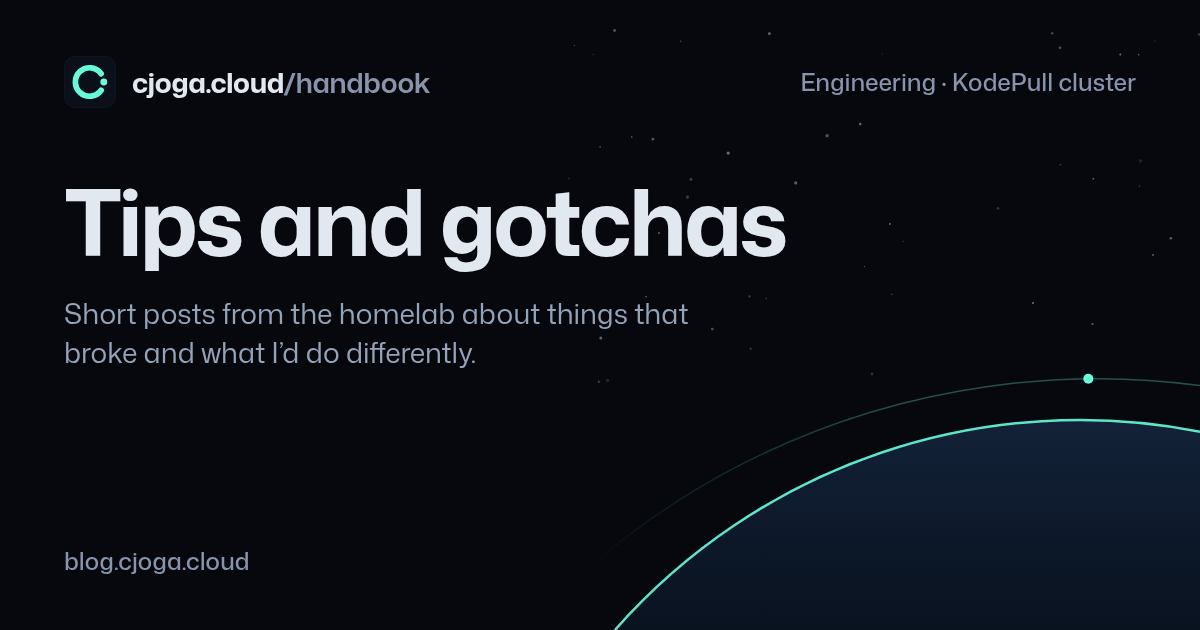
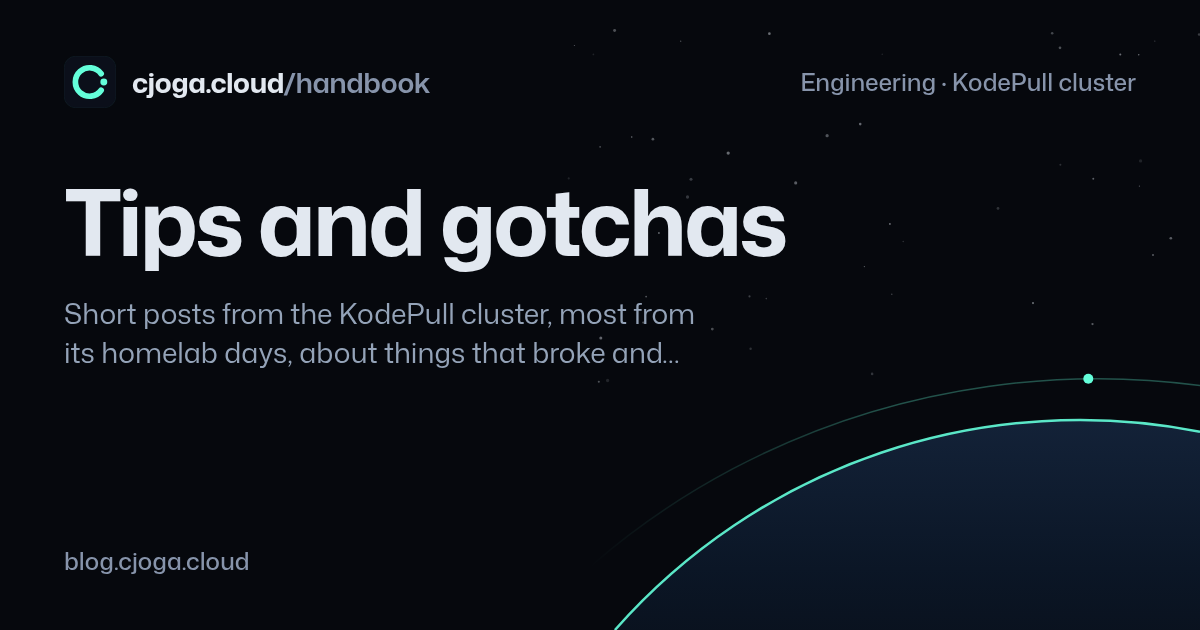
docs(handbook): consistency pass against the portfolio and the source facts
The Palette credential shows Palette's own mark (CertBadge takes a logo;
Spectro Cloud keeps its official mark). No "Senior" title; no parents'
nationality on /me/who-i-am, which keeps the birthplace; "Spanish
(native)". The who-i-am timeline adds FL Betances and Globant, and its
narrative matches the Arctiq and KodePull pages. The expiry essay counts
thirteen and says where the study time goes now; the DevOps-title essay
names one DevOps Engineer and one DevOps Consultant role. KodePull drops
an unverifiable industries claim for the work it is growing into. The
Globant page no longer names two current focuses. Section and tips
indexes say "cluster", and cards whose descriptions changed get new
social cards.

Changed region(s): [[0.0617, 0.5429, 0.555, 0.6032], [0.2775, 0.4825, 0.5858, 0.5127]]

diff --git a/blog-site/src/components/CertBadge/index.jsx b/blog-site/src/components/CertBadge/index.jsx
@@ -8,34 +8,25 @@ import {
   SiKubernetes,
 } from 'react-icons/si';
 import Link from '@docusaurus/Link';
+import useBaseUrl from '@docusaurus/useBaseUrl';
 import styles from './styles.module.css';
 
-// Spectro Cloud has no react-icon: its mark (stacked diamonds) from the
-// official logo in spectrocloud/librarium, in one colour.
-function SpectroMark(props) {
-  return (
-    <svg viewBox="0 0 274 334" {...props}>
-      <path fill="currentColor" d="M125.78,329.6L4.95,234.22c-6.42-5.07-6.43-14.8-.01-19.88l120.83-95.61c6.59-5.21,15.89-5.21,22.47,0l120.83,95.61c6.41,5.08,6.41,14.81-.01,19.88l-120.83,95.39c-6.58,5.19-15.86,5.19-22.44,0Z" />
-      <path fill="currentColor" opacity="0.45" d="M268.86,214.21s-.01,0-.02-.01l-122.78-96.83c-5.88-4.63-13.14-7.16-20.62-7.17l-115.83-.2c-5.07-.02-7.62-.92-8.71-4.39-.57,1.56-.78,3.06-.78,4.23,0,2.33.57,6.7,5,10.2,0,0,0,0,0,0l122.78,96.93c5.88,4.65,13.16,7.17,20.66,7.18l116.12.11c4.85.05,7.33.99,8.4,4.38.57-1.56.78-3.06.78-4.23,0-2.34-.57-6.71-5.01-10.21Z" />
-      <path fill="currentColor" d="M269.06,100.02L148.24,4.41c-6.59-5.21-15.89-5.21-22.47,0L4.94,100.02c-6.42,5.08-6.41,14.81.01,19.88l119.88,94.64c.14.16.31.33.53.51,6.77,5.44,10.23,6.76,14.77,8.01,4.54,1.25,8.44,1.1,10.05,1.1h6.03c-4.04-.54-5.79-3-6.37-4.98-.75-2.55.49-5.28,2.88-7.45l116.33-91.83c6.42-5.07,6.43-14.8.01-19.88Z" />
-      <path fill="currentColor" opacity="0.7" d="M152.72,211.73l56.47-44.58-63.12-49.78c-5.88-4.63-13.14-7.16-20.62-7.17l-115.83-.2c-5.07-.02-7.63-.95-8.72-4.41-.82,2.38-.88,4.15-.65,6,.23,1.91,1.05,4.13,2.3,5.82.67.91,1.52,1.79,2.59,2.64,0,0,0,0,0,0l119.7,94.49s0,0,0,0c0,0,2.85,2.46,5.51,4.17,3.06,1.97,6.4,3.47,9.9,4.38.06.02.11.03.17.04,2.65.67,5.39,1.02,8.17,1.03h7.64c-4.04-.54-5.79-2.99-6.37-4.97-.75-2.55.49-5.28,2.88-7.45Z" />
-    </svg>
-  );
-}
-
 // Issuer → react-icon + brand color. Mirrors the portfolio's
-// src/components/Certifications.jsx so the blog stays brand-consistent.
+// src/components/certifications/certData.js so the blog stays brand-consistent.
 const VENDOR_ICONS = {
   'The Linux Foundation': { Icon: SiKubernetes, color: '#326ce5' },
   'Amazon Web Services': { Icon: FaAws, color: '#ff9900' },
-  HashiCorp: { Icon: SiTerraform, color: '#7f4dff' },
+  HashiCorp: { Icon: SiTerraform, color: '#7b42bc' },
   'Red Hat': { Icon: FaRedhat, color: '#ee0000' },
-  Dynatrace: { Icon: SiDynatrace, color: '#73be28' },
+  Dynatrace: { Icon: SiDynatrace, color: '#1496ff' },
   GitLab: { Icon: SiGitlab, color: '#fc6d26' },
   'Technology Partners': { Icon: FaAward, color: null },
-  'Spectro Cloud': { Icon: SpectroMark, color: '#2bb3a3' },
+  // No react-icon: Spectro Cloud's official mark, in its own colours.
+  'Spectro Cloud': { image: '/img/logos/spectrocloud-mark.svg' },
 };
 
+// `logo` overrides the issuer's mark with a product's own (Palette for a
+// Spectro Cloud credential): the badge names the product, so it shows it.
 export default function CertBadge({
   name,
   issuer,
@@ -44,8 +35,11 @@ export default function CertBadge({
   status,
   note,
   noteHref,
+  logo,
 }) {
   const vendor = VENDOR_ICONS[issuer];
+  const image = logo || vendor?.image;
+  const imageUrl = useBaseUrl(image || '/');
   const Icon = vendor?.Icon;
   const iconColor = vendor?.color || 'var(--accent)';
 
@@ -53,7 +47,9 @@ export default function CertBadge({
   return (
     <div className={styles.badge}>
       <div className={styles.logoWrap}>
-        {Icon ? (
+        {image ? (
+          <img className={styles.logo} src={imageUrl} alt="" />
+        ) : Icon ? (
           <Icon
             className={styles.logo}
             style={{ color: iconColor }}

diff --git a/blog-site/docusaurus.config.js b/blog-site/docusaurus.config.js
@@ -504,12 +504,12 @@ export default async function createConfigAsync() {
         {
           name: "description",
           content:
-            "Camilo's handbook — opinions, K3s cluster notes, and cert guides from a working Senior Platform & DevOps Engineer.",
+            "Camilo's handbook — opinions, K3s cluster notes, and cert guides from a working Platform & DevOps Engineer.",
         },
         {
           name: "keywords",
           content:
-            "DevOps, Kubernetes, K3s, Terraform, AWS, RHCSA, RHCE, homelab, KodePull, GitOps, OpenBao, Vault",
+            "DevOps, Kubernetes, K3s, CKAD, CKA, Kubestronaut, Terraform, AWS, RHCSA, RHCE, homelab, KodePull, GitOps, OpenBao, Vault",
         },
         { name: "robots", content: "index, follow, max-image-preview:large" },
         { name: "twitter:card", content: "summary_large_image" },

diff --git a/blog-site/src/components/AuthorCard/index.jsx b/blog-site/src/components/AuthorCard/index.jsx
@@ -23,7 +23,7 @@ export default function AuthorCard() {
           Guerrero
         </p>
         <p className={styles.bio}>
-          Senior Platform &amp; DevOps Engineer and co-founder of KodePull.{" "}
+          Platform &amp; DevOps Engineer and co-founder of KodePull.{" "}
           <code>cjoga.cloud</code> runs on KodePull’s 6-node K3s cluster, split
           across Proxmox and bare metal; I write here when something’s worth
           sharing.
